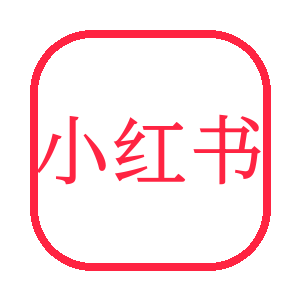
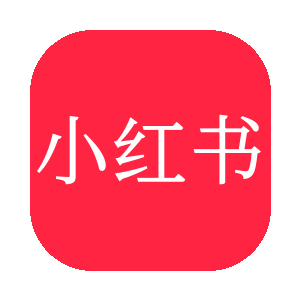
自动同步 2026-10-13 23:11

diff --git a/make_platform_icons.py b/make_platform_icons.py
@@ -56,43 +56,41 @@ def _font(size: int):
 
 
 def _draw_wechat(d: ImageDraw.ImageDraw, color: str, cx: int, cy: int):
-    """对话气泡 + 两个点（微信标志的简化）"""
+    """彩色底版：绿底已经由外框填充，画**白色**气泡 + 绿点"""
     w, h = 150, 122
     d.rounded_rectangle([cx - w // 2, cy - h // 2, cx + w // 2, cy + h // 2 - 16],
-                        radius=40, fill=color)
-    # 气泡小尾巴
+                        radius=40, fill="#FFFFFF")
     d.polygon([(cx - 34, cy + h // 2 - 18), (cx - 4, cy + h // 2 - 18),
-               (cx - 30, cy + h // 2 + 10)], fill=color)
-    # 两个白点
+               (cx - 30, cy + h // 2 + 10)], fill="#FFFFFF")
     for dx in (-32, 32):
-        d.ellipse([cx + dx - 11, cy - 24, cx + dx + 11, cy - 2], fill="#FFFFFF")
+        d.ellipse([cx + dx - 11, cy - 24, cx + dx + 11, cy - 2], fill=color)
 
 
 def _draw_zhihu(d: ImageDraw.ImageDraw, color: str, cx: int, cy: int):
-    """白底蓝框 + 「知」字"""
+    """彩色底版：蓝底（由外框填）+ 白「知」"""
     f = _font(180)
     txt = "知"
     box = d.textbbox((0, 0), txt, font=f)
     d.text((cx - (box[2] - box[0]) / 2 - box[0], cy - (box[3] - box[1]) / 2 - box[1]),
-           txt, font=f, fill=color)
+           txt, font=f, fill="#FFFFFF")
 
 
 def _draw_twitter(d: ImageDraw.ImageDraw, color: str, cx: int, cy: int):
-    """X 字母（两条粗斜线）"""
+    """彩色底版：黑底（外框填）+ 白 X"""
     s = 82
     w = 30
-    d.line([(cx - s, cy - s), (cx + s, cy + s)], fill=color, width=w)
-    d.line([(cx + s, cy - s), (cx - s, cy + s)], fill=color, width=w)
+    d.line([(cx - s, cy - s), (cx + s, cy + s)], fill="#FFFFFF", width=w)
+    d.line([(cx + s, cy - s), (cx - s, cy + s)], fill="#FFFFFF", width=w)
 
 
 def _draw_weibo(d: ImageDraw.ImageDraw, color: str, cx: int, cy: int):
-    """微博眼睛 + 信号弧"""
-    # 眼睛轮廓（横椭圆）
-    d.ellipse([cx - 96, cy - 44, cx + 52, cy + 52], fill=color)
-    # 眼白
-    d.ellipse([cx - 72, cy - 26, cx + 30, cy + 34], fill="#FFFFFF")
-    # 瞳孔
-    d.ellipse([cx - 40, cy - 16, cx + 4, cy + 24], fill=color)
+    """彩色底版：橙底（外框填）+ 白眼睛 + 白信号弧"""
+    d.ellipse([cx - 96, cy - 44, cx + 52, cy + 52], fill="#FFFFFF")
+    d.ellipse([cx - 72, cy - 26, cx + 30, cy + 34], fill=color)
+    d.ellipse([cx - 40, cy - 16, cx + 4, cy + 24], fill="#FFFFFF")
+    for rr in (38, 60, 82):
+        d.arc([cx + 30 - rr, cy - 30 - rr, cx + 30 + rr, cy - 30 + rr],
+              start=-78, end=-14, fill="#FFFFFF", width=11)
     # 信号弧（右上）
     for i, rr in enumerate((38, 60, 82)):
         d.arc([cx + 30 - rr, cy - 30 - rr, cx + 30 + rr, cy - 30 + rr],
@@ -100,7 +98,7 @@ def _draw_weibo(d: ImageDraw.ImageDraw, color: str, cx: int, cy: int):
 
 
 def _draw_xiaohongshu(d: ImageDraw.ImageDraw, color: str, cx: int, cy: int):
-    """「小红书」三个字横排（竖排在方框里挤，横排更好认）。"""
+    """彩色底版：红底（外框填）+ 白「小红书」横排。"""
     f = _font(74)
     txt = "小红书"
     gap = 4
@@ -112,7 +110,7 @@ def _draw_xiaohongshu(d: ImageDraw.ImageDraw, color: str, cx: int, cy: int):
     x = cx - total / 2
     for i, ch in enumerate(txt):
         b = d.textbbox((0, 0), ch, font=f)
-        d.text((x - b[0], cy - (b[3] - b[1]) / 2 - b[1]), ch, font=f, fill=color)
+        d.text((x - b[0], cy - (b[3] - b[1]) / 2 - b[1]), ch, font=f, fill="#FFFFFF")
         x += widths[i] + gap
 
 
@@ -131,9 +129,8 @@ def build(outdir: Path) -> list[Path]:
     for name, color, key in PLATFORMS:
         img = Image.new("RGB", (SIZE, SIZE), "#FFFFFF")
         d = ImageDraw.Draw(img)
-        # 白底 + 平台色圆角边框
-        d.rounded_rectangle([PAD, PAD, PAD + BOX, PAD + BOX], radius=R,
-                            fill="#FFFFFF", outline=color, width=BORDER)
+        # 原版形式：平台色圆角底（陈少 2026-10-13 截图「位置格式形式全部保留」）
+        d.rounded_rectangle([PAD, PAD, PAD + BOX, PAD + BOX], radius=R, fill=color)
         DRAWERS[key](d, color, SIZE // 2, SIZE // 2)
         out = outdir / ("%s.png" % key)
         img.save(out, "PNG")

diff --git a/ingest.py b/ingest.py
@@ -221,26 +221,16 @@ def archive(info: dict, dry_run: bool = False) -> Path | None:
     link_index.register(info.get("url", ""),
                         "%s/%s/%s" % (P.PLATFORMS[key], author, out.name))
 
-    # ── PDF 独立线（陈少 2026-10-13 定）：原始 HTML 留底 + 自动出 PDF ──
-    # 三个目录并列：xhtml/（阅读器）· html/（原始留底）· pdf/（打印版）。
-    # PDF 保留属性表（xhtml 里剥掉了），版式独立，互不干涉。
-    try:
-        book_dir = P.book_dir(key, author)
-        html_dir = book_dir / "html"
-        html_dir.mkdir(parents=True, exist_ok=True)
-        kept = html_dir / (safe_stem(stem) + ".html")
-        if not kept.exists():
-            shutil.copy2(info["path"], kept)
-            print("  ✓ 留底：%s/html/%s" % (P.PLATFORMS[key], kept.name[:40]))
-        import html_to_pdf as HP
-        pdf_dir = book_dir / "pdf"
-        pdf_dir.mkdir(parents=True, exist_ok=True)
-        pdf_out = pdf_dir / (safe_stem(stem) + ".pdf")
-        if not pdf_out.exists() and HP.convert_one(info["path"], pdf_out):
-            print("  ✓ PDF：%s/pdf/%s" % (P.PLATFORMS[key], pdf_out.name[:40]))
-    except Exception as exc:              # PDF 失败不影响 epub 线
-        _pg(info["path"].name, "fail", "PDF: %s" % str(exc)[:60])
-        print("  ⚠ PDF 线出错（epub 不受影响）：%s" % str(exc)[:80])
+    # ── html 原始留底（陈少 2026-10-13 定）：入料时 copy 一份，原件仍进废纸篓 ──
+    # 说明：PDF 线**暂停**（陈少 2026-10-13：PDF 暂不成熟，后续再想）。
+    # html 留底保留，将来 PDF 按需从 html/ 重出（`./epub.sh pdf`）。
+    book_dir = P.book_dir(key, author)
+    html_dir = book_dir / "html"
+    html_dir.mkdir(parents=True, exist_ok=True)
+    kept = html_dir / (safe_stem(stem) + ".html")
+    if not kept.exists():
+        shutil.copy2(info["path"], kept)
+        print("  ✓ 留底：%s/html/%s" % (P.PLATFORMS[key], kept.name[:40]))
 
     move_to_trash(info["path"])
     _pg(info["path"].name, "ok", "", "%s/%s" % (P.PLATFORMS[key], author))
